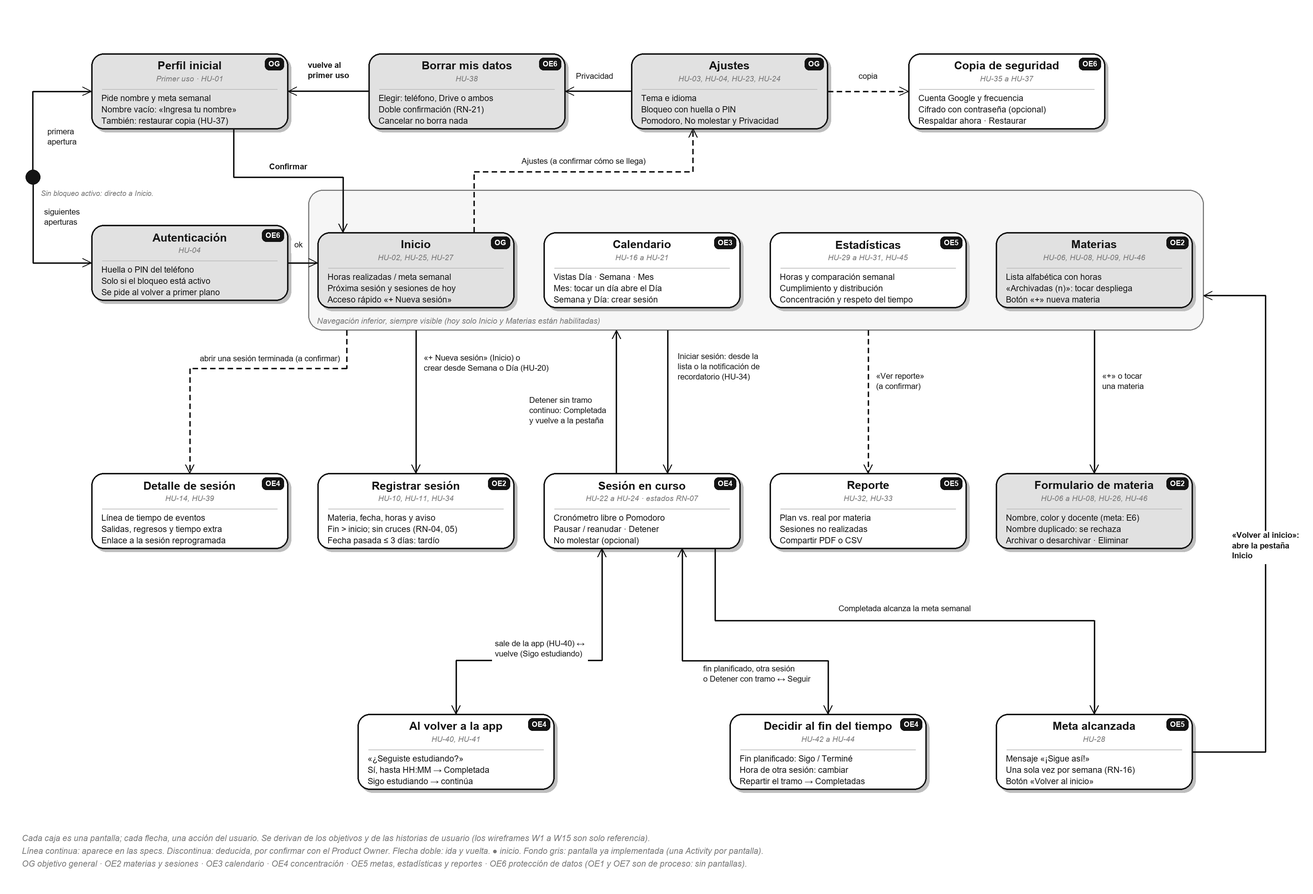
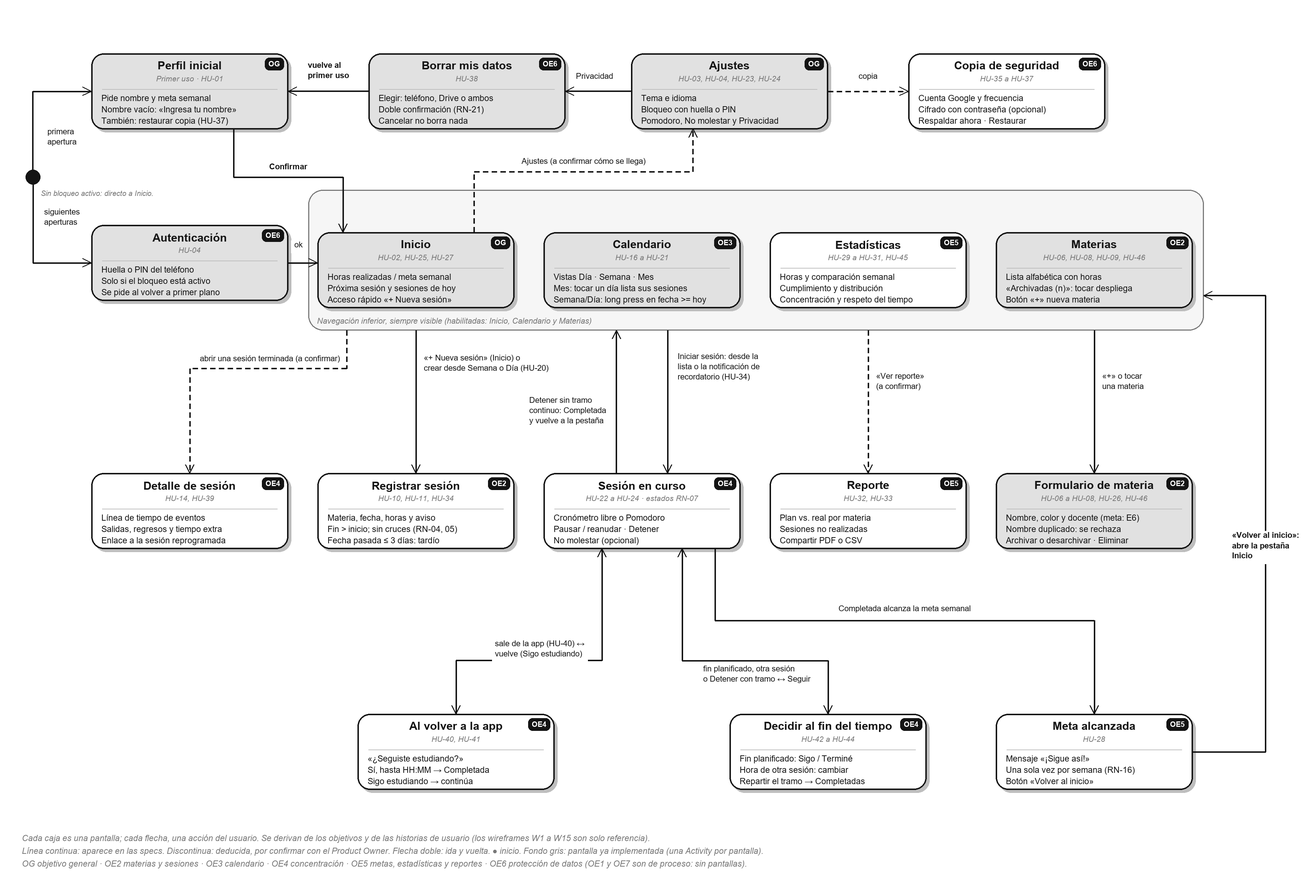
docs: actualizar diagramas, capitulos 3 y 4 y bitacora para epica E4

Changed region(s): [[0.3733, 0.2482, 0.56, 0.3722]]

diff --git a/docs/build/diagramas_clases.py b/docs/build/diagramas_clases.py
@@ -70,13 +70,22 @@ DOMINIO_SESIONES = ["CodigoEstadoSesion", "ConflictoHorario", "DetalleSesion", "
                     "ResultadoSesion", "SesionEstudio"]
 PERSISTENCIA_SESIONES = ["RelojSistema", "SesionDao", "SesionEntity", "SesionRepositoryRoom", "SesionesDeMateriaRoom"]
 
+# add-calendario-estudio
+PRESENTACION_CALENDARIO = ["CalendarioActivity", "CalendarioMesAdapter", "CalendarioViewModel",
+                           "PreferenciaVistaCalendario"]
+ENTRADA_CALENDARIO = ["ConsultarCalendario"]
+SERVICIOS_CALENDARIO = ["ConsultarCalendarioService"]
+DOMINIO_CALENDARIO = ["BloqueHorarioCalendario", "CalculadorRangoHorario", "CeldaDiaMes", "DatosCalendario",
+                      "FiltroCalendario", "ItemSesionCalendario", "PeriodoCalendario", "ResumenPeriodoCalendario",
+                      "VistaCalendario"]
+
 # Paquete (carpeta bajo io/github/jhoel0521/studyplan) -> todas las clases que deben aparecer en algún diagrama
 CLASES_POR_PAQUETE = {
-    "adapter/in/ui": PRESENTACION_CONFIG + PRESENTACION_MATERIAS + PRESENTACION_SESIONES,
-    "application/port/in": ENTRADA_CONFIG + ENTRADA_MATERIAS + ENTRADA_SESIONES,
-    "application/service": SERVICIOS_CONFIG + SERVICIOS_MATERIAS + SERVICIOS_SESIONES,
+    "adapter/in/ui": PRESENTACION_CONFIG + PRESENTACION_MATERIAS + PRESENTACION_SESIONES + PRESENTACION_CALENDARIO,
+    "application/port/in": ENTRADA_CONFIG + ENTRADA_MATERIAS + ENTRADA_SESIONES + ENTRADA_CALENDARIO,
+    "application/service": SERVICIOS_CONFIG + SERVICIOS_MATERIAS + SERVICIOS_SESIONES + SERVICIOS_CALENDARIO,
     "application/port/out": SALIDA_CONFIG + SALIDA_MATERIAS + SALIDA_SESIONES,
-    "domain": DOMINIO_CONFIG + DOMINIO_MATERIAS + DOMINIO_SESIONES,
+    "domain": DOMINIO_CONFIG + DOMINIO_MATERIAS + DOMINIO_SESIONES + DOMINIO_CALENDARIO,
     "adapter/out/persistence": PERSISTENCIA_CONFIG + PERSISTENCIA_MATERIAS + PERSISTENCIA_SESIONES,
     "adapter/out/security": SEGURIDAD_CONFIG,
 }
@@ -297,6 +306,57 @@ def clases_sesiones():
     dg.assoc(d, infra[2].left(0.3), infra[1].right(0.3), "usa", None, None)
     dg.assoc(d, infra[1].left(0.3), infra[0].right(0.3), "lee y escribe", None, None)
     img.crop((0, 0, W, int(y5 + alto(infra) + 60))).save(dg.OUT / "diagrama_clases_sesiones.png", dpi=(200, 200))
+
+
+def clases_calendario():
+    """Clases de la épica E4: calendario de estudio (vistas Día/Semana/Mes, filtros y consulta por rango)."""
+    W, H = 3760, 4200
+    img = Image.new("RGB", (W, H), dg.WHITE)
+    d = ImageDraw.Draw(img)
+    d.text((40, 20), "1. Presentación · adapter.in.ui", font=dg.font(34, True), fill=dg.BLACK)
+
+    xs1, w1 = [40, 980, 1920, 2860], 860
+    fila1 = [caja_con_metodos("CalendarioActivity", xs1[0], 80, w1),
+             caja_con_metodos("CalendarioViewModel", xs1[1], 80, w1),
+             caja_con_metodos("CalendarioMesAdapter", xs1[2], 80, w1),
+             caja_con_metodos("PreferenciaVistaCalendario", xs1[3], 80, w1)]
+    for c in fila1:
+        c.draw(d)
+    dg.assoc(d, fila1[0].right(0.2), fila1[1].left(0.2), "observa", None, None)
+    dg.assoc(d, fila1[1].right(0.2), fila1[3].left(0.2), "persiste vista", None, None)
+
+    y2 = 80 + alto(fila1) + 90
+    d.line([40, y2 - 30, W - 40, y2 - 30], fill=dg.MID, width=3)
+    d.text((40, y2), "2. Núcleo de la aplicación · Java puro, sin android.*", font=dg.font(34, True), fill=dg.BLACK)
+    y2 += 60
+    xs2, ws2 = [40, 1020, 1980, 2880], [900, 880, 820, 840]
+    periodo = caja_con_metodos("PeriodoCalendario", xs2[0], y2, ws2[0], con_campos=True)
+    calculador = caja_con_metodos("CalculadorRangoHorario", xs2[1], y2, ws2[1])
+    paquete_dom = caja_de_paquete(
+        "Modelos de lectura y filtro (domain)",
+        ["VistaCalendario", "FiltroCalendario", "DatosCalendario", "ItemSesionCalendario",
+         "BloqueHorarioCalendario", "CeldaDiaMes", "ResumenPeriodoCalendario"],
+        xs2[2], y2, ws2[2], "domain")
+    servicio = caja_con_metodos("ConsultarCalendarioService", xs2[3], y2, ws2[3])
+    nucleo = [periodo, calculador, paquete_dom, servicio]
+    for c in nucleo:
+        c.draw(d)
+    dg.assoc(d, servicio.left(0.3), paquete_dom.right(0.3), "construye", None, None)
+    dg.assoc(d, calculador.right(0.3), paquete_dom.left(0.3), "genera", None, None)
+
+    y3 = y2 + alto(nucleo) + 90
+    d.line([40, y3 - 30, W - 40, y3 - 30], fill=dg.MID, width=3)
+    d.text((40, y3), "3. Puertos e infraestructura Room v3 (sin migración)", font=dg.font(34, True), fill=dg.BLACK)
+    y3 += 60
+    infra = [caja_con_metodos("ConsultarCalendario", xs1[0], y3, w1, "port.in"),
+             caja_con_metodos("SesionRepository", xs1[1], y3, w1, "port.out"),
+             caja_con_metodos("SesionRepositoryRoom", xs1[2], y3, w1),
+             caja_con_metodos("SesionDao", xs1[3], y3, w1, "Dao")]
+    for c in infra:
+        c.draw(d)
+    dg.assoc(d, infra[2].left(0.3), infra[1].right(0.3), "implementa", None, None)
+    dg.assoc(d, infra[2].right(0.3), infra[3].left(0.3), "listarPorRango", None, None)
+    img.crop((0, 0, W, int(y3 + alto(infra) + 60))).save(dg.OUT / "diagrama_clases_calendario.png", dpi=(200, 200))
 
 
 # ---------------------------------------------------------------- modelo lógico y diccionario de datos
@@ -564,18 +624,56 @@ def secuencia_planificar_sesion():
     )
 
 
+PARTICIPANTES_CALENDARIO = [
+    ("CalendarioActivity", "adapter.in.ui"),
+    ("CalendarioViewModel", "adapter.in.ui"),
+    ("ConsultarCalendarioService", "application"),
+    ("VencerSesionesPendientesService", "application"),
+    ("SesionRepositoryRoom", "adapter.out"),
+    ("SesionDao", "Room"),
+]
+
+MENSAJES_CALENDARIO = [
+    (0, 1, "cargar() / cambiarVista(vista)", ("CalendarioViewModel", "cargar"), False),
+    (1, 2, "ejecutar(periodo, filtro)", ("ConsultarCalendarioService", "ejecutar"), False),
+    (2, 3, "ejecutar() [RN-08 vencer pendientes]", ("VencerSesionesPendientesService", "ejecutar"), False),
+    (3, 2, "int vencidas", None, True),
+    (2, 4, "listarPorRango(desde, hasta)", ("SesionRepositoryRoom", "listarPorRango"), False),
+    (4, 5, "listarPorRango(desdeIso, hastaIso)", ("SesionDao", "listarPorRango"), False),
+    (5, 4, "List<SesionEntity>", None, True),
+    (4, 2, "List<SesionEstudio>", None, True),
+    (2, 2, "filtrar, construir bloques/celdas y resumen Plan/Real", None, False),
+    (2, 1, "DatosCalendario", None, True),
+    (1, 0, "LiveData<DatosCalendario> → onDatosActualizados()", ("CalendarioActivity", "onDatosActualizados"), True),
+]
+
+
+def secuencia_consultar_calendario():
+    _dibujar_secuencia(
+        "Secuencia · consultar calendario de estudio (HU-16 a HU-21, RN-08, RN-11)",
+        PARTICIPANTES_CALENDARIO,
+        MENSAJES_CALENDARIO,
+        1,
+        10,
+        "secuencia_consultar_calendario.png",
+    )
+
+
 def generar():
     clases_configuracion()
     clases_materias()
     clases_sesiones()
+    clases_calendario()
     version, entidades = modelo_logico()
     actualizar_capitulo(version, entidades)
     secuencia_registrar_materia()
     secuencia_planificar_sesion()
+    secuencia_consultar_calendario()
 
 
 if __name__ == "__main__":
     generar()
     for f in ("diagrama_clases_configuracion", "diagrama_clases_materias", "diagrama_clases_sesiones",
-              "modelo_logico", "secuencia_registrar_materia", "secuencia_planificar_sesion"):
+              "diagrama_clases_calendario", "modelo_logico", "secuencia_registrar_materia",
+              "secuencia_planificar_sesion", "secuencia_consultar_calendario"):
         print((dg.OUT / f"{f}.png").relative_to(RAIZ))

diff --git a/docs/build/diagramas.py b/docs/build/diagramas.py
@@ -442,7 +442,7 @@ def flujo_pantallas():
     # grupo de navegación inferior: el usuario pasa libremente entre las 4 pestañas
     gx0, gy0, gx1, gy1 = 845, 520, 3300, 905
     d.rounded_rectangle([gx0, gy0, gx1, gy1], 40, fill=(246, 246, 246), outline=GRAY, width=3)
-    d.text((gx0 + 24, gy1 - 14), "Navegación inferior, siempre visible (hoy solo Inicio y Materias están habilitadas)",
+    d.text((gx0 + 24, gy1 - 14), "Navegación inferior, siempre visible (habilitadas: Inicio, Calendario y Materias)",
            font=font(22, italic=True), fill=GRAY, anchor="lb")
 
     caja("perfil", C0, Y1, "Perfil inicial", "Primer uso · HU-01",
@@ -455,8 +455,8 @@ def flujo_pantallas():
          ["Horas realizadas / meta semanal", "Próxima sesión y sesiones de hoy", "Acceso rápido «+ Nueva sesión»"],
          "OG", LIGHT)
     caja("cal", C2, Y2 + 20, "Calendario", "HU-16 a HU-21",
-         ["Vistas Día · Semana · Mes", "Mes: tocar un día abre el Día", "Semana y Día: crear sesión"],
-         "OE3")
+         ["Vistas Día · Semana · Mes", "Mes: tocar un día lista sus sesiones", "Semana/Día: long press en fecha >= hoy"],
+         "OE3", LIGHT)
     caja("est", C3, Y2 + 20, "Estadísticas", "HU-29 a HU-31, HU-45",
          ["Horas y comparación semanal", "Cumplimiento y distribución", "Concentración y respeto del tiempo"],
          "OE5")

diff --git a/docs/build/cotejo_clases.py b/docs/build/cotejo_clases.py
@@ -19,7 +19,8 @@ import diagramas_clases as dc  # noqa: E402
 
 RAIZ = dc.jf.RAIZ
 IMAGENES = ["diagrama_clases_configuracion", "diagrama_clases_materias", "diagrama_clases_sesiones",
-            "modelo_logico", "secuencia_registrar_materia", "secuencia_planificar_sesion"]
+            "diagrama_clases_calendario", "modelo_logico", "secuencia_registrar_materia",
+            "secuencia_planificar_sesion", "secuencia_consultar_calendario"]
 
 
 def cotejar_clases(errores):
@@ -46,9 +47,11 @@ def cotejar_imagenes(errores):
             dc.clases_configuracion()
             dc.clases_materias()
             dc.clases_sesiones()
+            dc.clases_calendario()
             dc.modelo_logico()
             dc.secuencia_registrar_materia()
             dc.secuencia_planificar_sesion()
+            dc.secuencia_consultar_calendario()
         finally:
             dg.OUT = carpeta_real
         for nombre in IMAGENES:

diff --git a/docs/auditoria-ia/bitacora.md b/docs/auditoria-ia/bitacora.md
@@ -172,11 +172,44 @@ Decisiones posibles: Aceptado · Modificado · Rechazado · Decidido por el huma
 
 | # | Solicitud / tema | Qué hizo la IA | Decisión humana | Justificación | Verificación |
 |---|---|---|---|---|---|
-| 70 | Aprobación del plan y Bloque 1: dominio puro y patrón State GoF (`RN-04`, `RN-07`) | Implementó `Fecha`, `Hora` (sin `java.time` para `minSdk 24` ni dependencias externas), `CodigoEstadoSesion`, `EstadoSesion` y sus 6 estados concretos (`EstadoPendiente`, `EstadoEnCurso`, `EstadoNoRealizada`, `EstadoCompletada`, `EstadoCompletadaTardia`, `EstadoReprogramada`), `SesionEstudio`, `ConflictoHorario`, `ResultadoSesion`, `DetalleSesion`, `DetalleSesionInicio` y amplió `ErrorValidacion` y `ResumenInicio` | **Aceptado** (aprobación humana previa de `0.1`) y **Pendiente** de revisión final de entrega | `AGENTS.md` §3 paso 2 y §6.1 (SRP/OCP/LSP con State GoF sin `switch`/`if` dispersos ni excepciones) | `.\gradlew.bat testDebugUnitTest lintDebug` en verde (`BUILD SUCCESSFUL`); commit `708492c` y `git push` |
-| 71 | Bloque 2: puertos de salida/entrada y servicios de aplicación (`HU-02`, `HU-08`..`HU-15`, `RN-05`, `RN-08`) | Creó puertos `Reloj`, `SesionRepository`, 8 puertos de entrada (`PlanificarSesion`, `RegistrarSesionPasada`, `CompletarSesion`, `RegistrarSesionTardia`, `ReprogramarSesion`, `EliminarSesion`, `ConsultarSesion`, `VencerSesionesPendientes`) y sus servicios + `ValidadorSesiones`, completó `ObtenerResumenInicioService`, actualizó `ListarMateriasService` y restringió `EliminarMateriaService` con sesiones reales | **Pendiente** de revisión humana | Arquitectura hexagonal estricta (`ArquitecturaTest` sin `android.*` en `domain`/`application`) y validación uniforme de cruces (`RN-05`) | `.\gradlew.bat testDebugUnitTest lintDebug` en verde; pruebas JUnit por servicio y regla de negocio; commit `87dda54` y `git push` |
-| 72 | Bloque 3: persistencia Room v3 (`MIGRATION_2_3`) y adaptadores reales (`RNF-12`, `HU-08`, `HU-09`) | Creó `SesionEntity` (claves foráneas `ON DELETE RESTRICT` a `materia` y `ON DELETE SET NULL` autoreferenciada), `SesionDao` (consultas parametrizadas + `@Transaction` en reprogramación), `SesionRepositoryRoom`, `SesionesDeMateriaRoom` (eliminando `SinSesionesDeMateria`), `RelojSistema`, `MIGRATION_2_3` en `Migraciones` y `StudyPlanDatabase` v3 con esquema exportado `3.json`; actualizó pruebas DAO y de migración | **Pendiente** de revisión humana | Eliminación del adaptador provisional `SinSesionesDeMateria` cumpliendo integridad referencial real en SQLite (`RN-03`) | `.\gradlew.bat assembleDebug assembleDebugAndroidTest testDebugUnitTest lintDebug` en verde + `SesionRepositoryRoomTest` y `Migracion3InstrumentalTest`; commit `2ee8911` y `git push` |
-| 73 | Bloque 4: presentación MVVM, ViewModels y layouts XML accesibles (`HU-02`, `HU-10`..`HU-15`, `RNF-06`, `RNF-10`) | Implementó `InicioViewModel`, `MainActivity`, `SesionInicioAdapter`, `SesionFormularioActivity`/`ViewModel`, `SesionDetalleActivity`/`ViewModel`, `EstadoSesionVisual`, `EventoSesion`, `FormatoSesion`, `MensajesDeError`, 7 drawables vectoriales y los layouts XML (`contenido_inicio`, `item_sesion_inicio`, `activity_sesion_formulario`, `activity_sesion_detalle` y variantes `layout-w600dp/`) cumpliendo §6.2, además del pulido de accesibilidad en layouts previos | **Pendiente** de revisión humana | Material Design 3 + Views XML accesibles, contraste y soporte multi-ventana sin lógica de negocio en Activities | `.\gradlew.bat assembleDebug testDebugUnitTest lintDebug` en verde (0 errores de Lint); commit `c9d794d` y `git push` |
-| 74 | Bloque 5: pruebas Espresso E2E y auditoría con `revisor-java` | Creó `SesionesEspressoTest` e `InicioEspressoTest` y amplió `MateriasEspressoTest`. Ejecutó auditoría de solo lectura siguiendo `.claude/agents/revisor-java.md`: detectó y corrigió el hallazgo **Alto** (`SesionFormularioActivity` y `SesionDetalleActivity` extendían `ActividadBase` en lugar de `ActividadProtegida`, omitiendo `FLAG_SECURE` y el bloqueo `HU-04`/`RNF-12`), hallazgos **Medios** (listeners lambda de `MaterialTimePicker` pasados a métodos con nombre y candado anti-doble-toque en `SesionDetalleViewModel.completar`) y hallazgos **Bajos** (`MainActivity`, `ObtenerResumenInicioService`, `item_materia.xml`, `item_encabezado_archivadas.xml`, `ic_reloj.xml`, Javadocs) | **Pendiente** de revisión humana | Cierre de seguridad (`RNF-12`) y cumplimiento estricto de `AGENTS.md` §6 antes de documentar | `.\gradlew.bat assembleDebug test lint` (199 unit tests / 39 suites, 0 fallos, 0 errores Lint) y `connectedDebugAndroidTest` en `SP_API37` (63 tests / 19 suites, 0 fallos); commit `0f3e058` y `git push` |
-| 75 | Bloque 6: diagramas, modelo lógico v3, capítulo 4, APA 7 y validación OpenSpec | Actualizó `docs/build/diagramas_clases.py` y `docs/build/cotejo_clases.py` para cubrir las 141 clases en 7 paquetes, generó `diagrama_clases_sesiones.png`, `secuencia_planificar_sesion.png` y `modelo_logico.png` v3, actualizó secciones 4.1–4.4 de `04-diseno-del-software.md`, revisó con `.apa/scripts/revisar.py`, generó `.docx` con `generar_docx.py` y validó OpenSpec | **Pendiente** de revisión humana | Mantener trazabilidad 1:1 generada desde código Java y esquemas Room (`cotejo_clases.py`) | `python docs/build/cotejo_clases.py` (141 clases, 0 desfases), `revisar.py`, `generar_docx.py` y `openspec validate add-sesiones-estudio --strict` |
+| 70 | Aprobación del plan y Bloque 1: dominio puro y patrón State GoF (`RN-04`, `RN-07`) | Implementó `Fecha`, `Hora` (sin `java.time` para `minSdk 24` ni dependencias externas), `CodigoEstadoSesion`, `EstadoSesion` y sus 6 estados concretos (`EstadoPendiente`, `EstadoEnCurso`, `EstadoNoRealizada`, `EstadoCompletada`, `EstadoCompletadaTardia`, `EstadoReprogramada`), `SesionEstudio`, `ConflictoHorario`, `ResultadoSesion`, `DetalleSesion`, `DetalleSesionInicio` y amplió `ErrorValidacion` y `ResumenInicio` | **Aceptado** (revisado por el estudiante y archivado el 2026-11-16 en commit `f11c4f1`) | `AGENTS.md` §3 paso 2 y §6.1 (SRP/OCP/LSP con State GoF sin `switch`/`if` dispersos ni excepciones) | `.\gradlew.bat testDebugUnitTest lintDebug` en verde (`BUILD SUCCESSFUL`); commit `708492c` y `git push` |
+| 71 | Bloque 2: puertos de salida/entrada y servicios de aplicación (`HU-02`, `HU-08`..`HU-15`, `RN-05`, `RN-08`) | Creó puertos `Reloj`, `SesionRepository`, 8 puertos de entrada (`PlanificarSesion`, `RegistrarSesionPasada`, `CompletarSesion`, `RegistrarSesionTardia`, `ReprogramarSesion`, `EliminarSesion`, `ConsultarSesion`, `VencerSesionesPendientes`) y sus servicios + `ValidadorSesiones`, completó `ObtenerResumenInicioService`, actualizó `ListarMateriasService` y restringió `EliminarMateriaService` con sesiones reales | **Aceptado** (revisado por el estudiante y archivado el 2026-11-16 en commit `f11c4f1`) | Arquitectura hexagonal estricta (`ArquitecturaTest` sin `android.*` en `domain`/`application`) y validación uniforme de cruces (`RN-05`) | `.\gradlew.bat testDebugUnitTest lintDebug` en verde; pruebas JUnit por servicio y regla de negocio; commit `87dda54` y `git push` |
+| 72 | Bloque 3: persistencia Room v3 (`MIGRATION_2_3`) y adaptadores reales (`RNF-12`, `HU-08`, `HU-09`) | Creó `SesionEntity` (claves foráneas `ON DELETE RESTRICT` a `materia` y `ON DELETE SET NULL` autoreferenciada), `SesionDao` (consultas parametrizadas + `@Transaction` en reprogramación), `SesionRepositoryRoom`, `SesionesDeMateriaRoom` (eliminando `SinSesionesDeMateria`), `RelojSistema`, `MIGRATION_2_3` en `Migraciones` y `StudyPlanDatabase` v3 con esquema exportado `3.json`; actualizó pruebas DAO y de migración | **Aceptado** (revisado por el estudiante y archivado el 2026-11-16 en commit `f11c4f1`) | Eliminación del adaptador provisional `SinSesionesDeMateria` cumpliendo integridad referencial real en SQLite (`RN-03`) | `.\gradlew.bat assembleDebug assembleDebugAndroidTest testDebugUnitTest lintDebug` en verde + `SesionRepositoryRoomTest` y `Migracion3InstrumentalTest`; commit `2ee8911` y `git push` |
+| 73 | Bloque 4: presentación MVVM, ViewModels y layouts XML accesibles (`HU-02`, `HU-10`..`HU-15`, `RNF-06`, `RNF-10`) | Implementó `InicioViewModel`, `MainActivity`, `SesionInicioAdapter`, `SesionFormularioActivity`/`ViewModel`, `SesionDetalleActivity`/`ViewModel`, `EstadoSesionVisual`, `EventoSesion`, `FormatoSesion`, `MensajesDeError`, 7 drawables vectoriales y los layouts XML (`contenido_inicio`, `item_sesion_inicio`, `activity_sesion_formulario`, `activity_sesion_detalle` y variantes `layout-w600dp/`) cumpliendo §6.2, además del pulido de accesibilidad en layouts previos | **Aceptado** (revisado por el estudiante y archivado el 2026-11-16 en commit `f11c4f1`) | Material Design 3 + Views XML accesibles, contraste y soporte multi-ventana sin lógica de negocio en Activities | `.\gradlew.bat assembleDebug testDebugUnitTest lintDebug` en verde (0 errores de Lint); commit `c9d794d` y `git push` |
+| 74 | Bloque 5: pruebas Espresso E2E y auditoría con `revisor-java` | Creó `SesionesEspressoTest` e `InicioEspressoTest` y amplió `MateriasEspressoTest`. Ejecutó auditoría de solo lectura siguiendo `.claude/agents/revisor-java.md`: detectó y corrigió el hallazgo **Alto** (`SesionFormularioActivity` y `SesionDetalleActivity` extendían `ActividadBase` en lugar de `ActividadProtegida`, omitiendo `FLAG_SECURE` y el bloqueo `HU-04`/`RNF-12`), hallazgos **Medios** (listeners lambda de `MaterialTimePicker` pasados a métodos con nombre y candado anti-doble-toque en `SesionDetalleViewModel.completar`) y hallazgos **Bajos** (`MainActivity`, `ObtenerResumenInicioService`, `item_materia.xml`, `item_encabezado_archivadas.xml`, `ic_reloj.xml`, Javadocs) | **Aceptado** (revisado por el estudiante y archivado el 2026-11-16 en commit `f11c4f1`) | Cierre de seguridad (`RNF-12`) y cumplimiento estricto de `AGENTS.md` §6 antes de documentar | `.\gradlew.bat assembleDebug test lint` (199 unit tests / 39 suites, 0 fallos, 0 errores Lint) y `connectedDebugAndroidTest` en `SP_API37` (63 tests / 19 suites, 0 fallos); commit `0f3e058` y `git push` |
+| 75 | Bloque 6: diagramas, modelo lógico v3, capítulo 4, APA 7 y validación OpenSpec | Actualizó `docs/build/diagramas_clases.py` y `docs/build/cotejo_clases.py` para cubrir las 141 clases en 7 paquetes, generó `diagrama_clases_sesiones.png`, `secuencia_planificar_sesion.png` y `modelo_logico.png` v3, actualizó secciones 4.1–4.4 de `04-diseno-del-software.md`, revisó con `.apa/scripts/revisar.py`, generó `.docx` con `generar_docx.py` y validó OpenSpec | **Aceptado** (revisado por el estudiante y archivado el 2026-11-16 en commit `f11c4f1`) | Mantener trazabilidad 1:1 generada desde código Java y esquemas Room (`cotejo_clases.py`) | `python docs/build/cotejo_clases.py` (141 clases, 0 desfases), `revisar.py`, `generar_docx.py` y `openspec validate add-sesiones-estudio --strict` |
 
-**Errores o riesgos registrados en esta sesión:** (1) En la primera corrida de `SesionesEspressoTest`, 2 aserciones fallaron con `AmbiguousViewMatcherException` al buscar el texto numérico sin acotar `textoDuracionRealDetalle` (corregido con `allOf`). (2) La implementación inicial de Bloque 4 heredó `SesionFormularioActivity` y `SesionDetalleActivity` de `ActividadBase` en lugar de `ActividadProtegida`; el subagente `revisor-java` lo detectó como riesgo Alto para `HU-04`/`RNF-12` y se migraron ambas Activities a `ActividadProtegida` con carga en `alEstarListo()`. (3) Al atender un detalle menor se probó `getBindingAdapterPosition()`, no disponible en la versión actual de `RecyclerView` de Material 3, revirtiéndose de inmediato a `getAdapterPosition()` antes del cierre final de compilación y pruebas. Queda pendiente la decisión humana sobre si archivar ya el change (`openspec archive add-sesiones-estudio`) o tras la revisión visual en Android Studio.
+**Errores o riesgos registrados en esta sesión:** (1) En la primera corrida de `SesionesEspressoTest`, 2 aserciones fallaron con `AmbiguousViewMatcherException` al buscar el texto numérico sin acotar `textoDuracionRealDetalle` (corregido con `allOf`). (2) La implementación inicial de Bloque 4 heredó `SesionFormularioActivity` y `SesionDetalleActivity` de `ActividadBase` en lugar de `ActividadProtegida`; el subagente `revisor-java` lo detectó como riesgo Alto para `HU-04`/`RNF-12` y se migraron ambas Activities a `ActividadProtegida` con carga en `alEstarListo()`. (3) Al atender un detalle menor se probó `getBindingAdapterPosition()`, no disponible en la versión actual de `RecyclerView` de Material 3, revirtiéndose de inmediato a `getAdapterPosition()` antes del cierre final de compilación y pruebas. El change `add-sesiones-estudio` quedó archivado el 2026-11-16 en `openspec/changes/archive/2026-11-16-add-sesiones-estudio` (commit `f11c4f1`).
+
+---
+
+## Sesión 7 — 2026-11-16 · Antigravity (cierre de E3 y propuesta OpenSpec de Épica E4 `add-calendario-estudio`)
+
+**Entradas del estudiante:** correcciones a `concepts_evidencia_e4.md` (33 tareas en `add-sesiones-estudio/tasks.md`, filas 70–75, rechazo de librerías candidatas de calendario, alcance estricto sin migración Room v3 ni permisos, `HU-16` sobre `flujo_pantallas.png` y `HU-34` en E9), respuestas funcionales para `Mes`/`Semana`/`Día`, observación sobre el bug de exigir `48dp` mínimos en cuadrículas pequeñas, ejecución de `/openspec-propose`, consulta sobre `JKostikiadis/JFXCalendar` y aprobación final del enfoque nativo para aplicar con `/opsx:apply`.
+
+| # | Solicitud / tema | Qué hizo la IA | Decisión humana | Justificación | Verificación |
+|---|---|---|---|---|---|
+| 76 | Corrección de `concepts_evidencia_e4.md`, cierre de filas 70–75 de E3 y ajuste de la regla `48dp` | Actualizó `concepts_evidencia_e4.md` con las correcciones del estudiante (33 tareas en E3, `listarPorRango` sobre Room v3, `HU-16` sobre `flujo_pantallas.png`, `HU-34` en E9), cerró las filas 70–75 tras el archivado de `add-sesiones-estudio` (`f11c4f1`) y actualizó `AGENTS.md` §6.2 + `.claude/agents/revisor-java.md` eximiendo de `minHeight="48dp"` a las celdas de cuadrícula de calendario de 7 columnas (L–D) y a los bloques horarios proporcionales en pantallas pequeñas | **Aceptado** (decidido por el humano) | Evitar falsos errores y deformación de la rejilla semanal/mensual en teléfonos pequeños (`RNF-19`) | Lectura de `concepts_evidencia_e4.md`, `git diff AGENTS.md .claude/agents/revisor-java.md` y `git show f11c4f1 --stat` |
+| 77 | Evaluación de librerías de calendario y consulta sobre `JKostikiadis/JFXCalendar` | Ante el comentario en `proposal.md` preguntando por `https://github.com/JKostikiadis/JFXCalendar` para no programar desde cero, consultó el proyecto y explicó que `JFXCalendar` usa JavaFX (`javafx.scene.*`) y `JFoenix` para aplicaciones de escritorio, por lo que no puede insertarse en layouts XML (`android.view.View`) ni ejecutarse en Android; expuso dos alternativas reales (librería Android `WeekView` en `Canvas` vs. AndroidX/Material nativo generado en `/opsx:apply`) | **Aceptado** (el estudiante confirmó usar desarrollo nativo en Views XML + Java) | JavaFX no forma parte del SDK/runtime de Android; los datos de terceros sobre `JFXCalendar` quedan **marcados para verificación manual** (`AGENTS.md` §5) | Consulta web de `JKostikiadis/JFXCalendar` (`search_web`) y respuesta confirmada del estudiante |
+| 78 | Decisiones funcionales de E4 y propuesta OpenSpec `add-calendario-estudio` (`/openspec-propose`) | Incorporó las decisiones del Product Owner (`Semana` por defecto con memoria local de última vista, conservación de foco entre vistas, días adyacentes atenuados, rejilla 24 h con auto-scroll `± 2 h`, creación por pulsación larga sostenida en `fecha >= hoy`, filtros con materias archivadas y estados, `listarPorRango` en Room v3) y creó `openspec/changes/add-calendario-estudio/` (`proposal.md`, delta spec `specs/calendario-estudio/spec.md` para `HU-20` y `HU-21`, `design.md`, `tasks.md` con 6 bloques y `trazabilidad.md`), marcando `0.1` tras la aprobación humana | **Aceptado** para pasar a `/opsx:apply` (implementación de bloques 1 a 6 pendiente de ejecución y revisión humana) | Propuesta alineada con `AGENTS.md` §3 y arquitectura hexagonal sobre Room v3 sin librerías externas ni permisos | `openspec status --change add-calendario-estudio` (4/4 completos) y `openspec validate --all --strict` (11/11 válidos, 0 fallos) |
+
+**Pendiente de revisión humana:** implementar y verificar los bloques 1 a 6 de `openspec/changes/add-calendario-estudio/tasks.md` (mediante `/opsx:apply`), confirmar las referencias de `JKostikiadis/JFXCalendar` si se citan en el documento y hacer commit de los cambios locales cuando el estudiante lo solicite.
+
+
+---
+
+## Sesión 7 — 2026-11-16 · Antigravity (archivado de E3 e implementación completa de Épica E4 `add-calendario-estudio`)
+
+**Entradas del estudiante:** archivado del change `add-sesiones-estudio` (commit `f11c4f1`) y ejecución de `/openspec-apply-change add-calendario-estudio` tras la aprobación humana (`0.1`), siguiendo estrictamente la arquitectura hexagonal en Java puro, Views XML nativas sin librerías externas ni migración de Room v3, commits modulares por bloque y actualización de diagramas, capítulos 3–4 y bitácora.
+
+| # | Solicitud / tema | Qué hizo la IA | Decisión humana | Justificación | VerificaciÃ³n |
+|---|---|---|---|---|---|
+| 76 | Archivado de E3 (`add-sesiones-estudio`) | Verificó 33/33 tareas completas, archivó en `openspec/changes/archive/2026-11-16-add-sesiones-estudio/` y realizó commit `f11c4f1` por ruta explícita | **Aceptado** (solicitado por el estudiante) | Cierre formal de E3 antes de iniciar E4 (`AGENTS.md` §3 paso 5) | `openspec list --json` vacío; commit `f11c4f1` |
+| 77 | Bloque 1: dominio puro del calendario (`HU-16` a `HU-21`, `RN-13`) | Creó `VistaCalendario`, `FiltroCalendario`, `PeriodoCalendario`, `ItemSesionCalendario`, `BloqueHorarioCalendario`, `CeldaDiaMes`, `ResumenPeriodoCalendario`, `DatosCalendario` y `CalculadorRangoHorario` en Java puro sobre `Fecha`/`Hora`, más `PeriodoCalendarioTest` y `CalculadorRangoHorarioTest` | **Pendiente** de revisión humana | Aritmética de periodos, conservación de foco, ventana `± 2 h` y reparto de solapamientos desacoplados de Android | `.\gradlew.bat testDebugUnitTest lintDebug` en verde (incluye `ArquitecturaTest`); commit `177059a` y `git push` |
+| 78 | Bloque 2: puerto `listarPorRango` y caso de uso `ConsultarCalendario` | Amplió `SesionRepository` con `listarPorRango(Fecha, Fecha)`, implementó `ConsultarCalendario` + `ConsultarCalendarioService` (vencimiento `RN-08`, filtros de materia/archivadas/estados y resumen `Plan / Real` acotado al rango visible) y `ConsultarCalendarioServiceTest` | **Pendiente** de revisión humana | Separación estricta de puertos e inyección por constructor (`DIP`/`ISP`) | `.\gradlew.bat testDebugUnitTest lintDebug` en verde; commit `e950b56` y `git push` |
+| 79 | Bloque 3: consulta por rango en Room v3 sin migración | Añadió `listarPorRango(String, String)` en `SesionDao` aprovechando `index_sesion_estudio_fecha`, lo conectó en `SesionRepositoryRoom` y agregó prueba de rango inclusivo, orden y verificación de versión 3 en `SesionRepositoryRoomTest` | **Pendiente** de revisión humana | Reutilización del esquema v3 existente sin migración ni permisos | `.\gradlew.bat assembleDebug assembleDebugAndroidTest testDebugUnitTest lintDebug` en verde; commit `f774074` y `git push` |
+| 80 | Bloque 4: presentación XML nativa, `CalendarioActivity` y ViewModel | Implementó `PreferenciaVistaCalendario`, `CalendarioViewModel` (+ `CalendarioViewModelTest`), `CalendarioMesAdapter`, `CalendarioActivity` (extiende `ActividadProtegida`, vistas `Día | Semana | Mes`, swipe, filtros, leyenda, `longClick` en `fecha >= hoy` y toque a `SesionDetalleActivity`), habilitó `DestinoPrincipal.CALENDARIO`, amplió `SesionFormularioActivity` (`EXTRA_HORA_INICIO`/`FIN`), `values`/`values-en/strings.xml`, `AndroidManifest.xml` y los 7 layouts XML (`layout/` y `layout-w600dp/`) | **Pendiente** de revisión humana | UI 100 % nativa en Views XML + Material 3 cumpliendo `AGENTS.md` §6.2 y `RNF-06`/`RNF-19` | `.\gradlew.bat assembleDebug testDebugUnitTest lintDebug` en verde (0 errores Lint); commit `e1b8863` y `git push` |
+| 81 | Bloque 5: pruebas Espresso E2E y revisión con `revisor-java` | Creó `CalendarioActivityEspressoTest` (5 pruebas E2E cubriendo `Semana` inicial, memoria de vista, foco, `Mes`, `Leyenda`, `longClick` en hoy vs pasado, filtros, rotación, color editado `HU-07` y `NO_REALIZADA` pasada `HU-13`/`HU-14`), actualizó `NavegacionEspressoTest` y ejecutó revisión `revisor-java` y `connectedDebugAndroidTest` en `SP_API37` | **Pendiente** de revisión humana | Verificación integral E2E en emulador real sin dependencias externas | `.\gradlew.bat assembleDebug test lint` en verde; `connectedDebugAndroidTest` en `SP_API37` (69/69 tests, 0 fallos); commit `fc2546b` y `git push` |
+| 82 | Bloque 6: diagramas, capítulos 3–4, APA 7 y validación OpenSpec | Corrigió `flujo_pantallas()` en `docs/build/diagramas.py`, añadió `diagrama_clases_calendario.png` y `secuencia_consultar_calendario.png` en `diagramas_clases.py` y `cotejo_clases.py` (156 clases en 7 paquetes, 0 desfases), actualizó `HU-20`/`HU-21` en cap. 3 y sección E4 en cap. 4, validó con `revisar.py`, generó `.docx` con `generar_docx.py` y validó OpenSpec | **Pendiente** de revisión humana | Trazabilidad 1:1 entre código Java, diagramas y documento APA 7 | `cotejo_clases.py` (156 clases, 0 desfases), `revisar.py`, `generar_docx.py` y `openspec validate add-calendario-estudio --strict` |
+
+**Errores o riesgos registrados en esta sesión:** en la primera ejecución de `connectedDebugAndroidTest` fallaron 2 pruebas instrumentadas: (1) `CalendarioActivityEspressoTest#vistaMesListaSesionesAlTocarDiaYLeyendaMuestraTodosLosEstados` por `AmbiguousViewMatcherException` al buscar `withContentDescription(containsString(hoy))` sin acotar `withId(R.id.tarjetaCeldaMes)` (coincidía con las franjas ocultas de la vista anterior); (2) `SesionRepositoryRoomTest#listarPorRangoOrdenaInclusivamenteYConservaVersion3SinPermisos` porque el manifiesto combinado incluye permisos heredados de bibliotecas AndroidX/Biometric (`DYNAMIC_RECEIVER_NOT_EXPORTED_PERMISSION`, `USE_BIOMETRIC`), ajustándose la aserción a comprobar la ausencia de `INTERNET` y de permisos de E5/E9 (`POST_NOTIFICATIONS`, `SCHEDULE_EXACT_ALARM`, `RECEIVE_BOOT_COMPLETED`, `VIBRATE`, `ACCESS_NOTIFICATION_POLICY`). Queda pendiente la revisión humana y el archivado final con `/openspec-archive-change add-calendario-estudio`.

diff --git a/docs/documento/capitulos/03-requisitos-y-analisis-del-sistema.md b/docs/documento/capitulos/03-requisitos-y-analisis-del-sistema.md
@@ -270,13 +270,13 @@ Tabla: Historias de usuario de la épica E4: Calendario de estudio {#tabla11}
 | **Prioridad / Est.** | Must · 3 puntos |
 | **Criterios de aceptación** | 1. **Indicadores.** *Dado* que hay sesiones en distintos estados, *cuando* el estudiante ve cualquier vista del calendario, *entonces* cada sesión muestra un ícono y una etiqueta propios de su estado, sin depender solo del color.<br>2. **Leyenda.** *Dado* que el estudiante no reconoce un ícono, *cuando* abre la leyenda del calendario, *entonces* el sistema explica cada ícono de estado. |
 | **HU-20** | **Crear sesión desde el calendario** |
-| **Historia** | Como estudiante, quiero tocar un día u hora libre del calendario para crear una sesión para planificar directamente sobre mi agenda. |
+| **Historia** | Como estudiante, quiero mantener pulsado un día u hora libre del calendario para crear una sesión para planificar directamente sobre mi agenda. |
 | **Prioridad / Est.** | Should · 3 puntos |
-| **Criterios de aceptación** | 1. **Hora libre.** *Dado* que la vista Semana o Día está abierta, *cuando* el estudiante toca una franja libre a las 15:00 del viernes, *entonces* el sistema abre «Nueva sesión» con fecha viernes e inicio 15:00 precargados.<br>2. **Día en la vista Mes.** *Dado* que la vista Mes está abierta, *cuando* el estudiante mantiene pulsado un día, *entonces* el sistema abre «Nueva sesión» con esa fecha. |
+| **Criterios de aceptación** | 1. **Hora libre.** *Dado* que la vista Semana o Día está abierta en una fecha igual o posterior a hoy, *cuando* el estudiante mantiene pulsada de forma sostenida una franja libre a las 15:00 del viernes, *entonces* el sistema abre «Nueva sesión» en modo planificar con fecha viernes, inicio 15:00 y fin sugerido 16:00 precargados.<br>2. **Día en la vista Mes.** *Dado* que la vista Mes está abierta en una fecha igual o posterior a hoy, *cuando* el estudiante mantiene pulsado de forma sostenida un día, *entonces* el sistema abre «Nueva sesión» en modo planificar con esa fecha precargada.<br>3. **Fecha pasada sin creación desde el calendario.** *Dado* que cualquier vista del calendario muestra un día anterior a hoy, *cuando* el estudiante mantiene pulsado ese día o una franja horaria de ese día, *entonces* el sistema no abre el formulario de creación desde el calendario. |
 | **HU-21** | **Filtrar y resumir el calendario** |
-| **Historia** | Como estudiante, quiero filtrar el calendario por materia y ver el total de horas planificadas y realizadas para analizar mi dedicación a una materia en el tiempo. |
+| **Historia** | Como estudiante, quiero filtrar el calendario por materia (incluyendo opcionalmente archivadas) y ver el total de horas planificadas y realizadas para analizar mi dedicación a una materia en el tiempo. |
 | **Prioridad / Est.** | Should · 3 puntos |
-| **Criterios de aceptación** | 1. **Filtro.** *Dado* que hay sesiones de varias materias, *cuando* el estudiante filtra por «Matemáticas», *entonces* todas las vistas muestran solo las sesiones de esa materia hasta quitar el filtro.<br>2. **Resumen.** *Dado* que una vista está abierta, *cuando* el estudiante consulta la cabecera, *entonces* el sistema muestra las horas planificadas y realizadas del día, la semana o el mes visible. |
+| **Criterios de aceptación** | 1. **Filtro.** *Dado* que hay sesiones de varias materias activas y archivadas, *cuando* el estudiante filtra por «Matemáticas» o habilita incluir materias archivadas para seleccionar una archivada, *entonces* todas las vistas muestran solo las sesiones que cumplen el filtro hasta restablecerlo.<br>2. **Resumen.** *Dado* que una vista está abierta, *cuando* el estudiante consulta la cabecera, *entonces* el sistema muestra las horas planificadas y realizadas del día, la semana o el mes visible según el filtro activo. |
 | **Criterios de calidad** | RNF-02, RNF-04, RNF-06, RNF-19, RNF-09, RNF-16, RNF-17 (ver @tabla:tabla21) |
 | **Spec OpenSpec** | openspec/specs/calendario-estudio/spec.md |
 

diff --git a/openspec/changes/add-calendario-estudio/tasks.md b/openspec/changes/add-calendario-estudio/tasks.md
@@ -53,9 +53,9 @@
 
 ## 6. Documentación académica, diagramas y auditoría IA
 
-- [ ] 6.1 Corregir `flujo_pantallas()` en `docs/build/diagramas.py` (prevalece `HU-16`: en `Mes` tocar un día lista sus sesiones debajo; `Semana`/`Día` crean por pulsación larga en `fecha >= hoy`; mantener `HU-34` en E9), actualizar `docs/build/diagramas_clases.py` y `docs/build/cotejo_clases.py` con las nuevas clases de E4 y diagrama de secuencia de consulta de calendario, y regenerar figuras comprobando `python docs/build/cotejo_clases.py` con 0 desfases.
-- [ ] 6.2 Actualizar `docs/documento/capitulos/03-requisitos-y-analisis-del-sistema.md` (criterios de `HU-20` y `HU-21` acorde con el delta spec) y `docs/documento/capitulos/04-diseno-del-software.md` (secciones 4.2, 4.3 y 4.4 con las figuras regeneradas), actualizar `docs/auditoria-ia/bitacora.md`, validar con `python .apa/scripts/revisar.py --doc docs/documento`, generar el `.docx` con `python .apa/scripts/generar_docx.py --doc docs/documento` y confirmar `openspec validate add-calendario-estudio --strict`.
-- [ ] 6.3 Realizar `git commit` por ruta explícita (`docs: actualizar diagramas, capitulos 3 y 4 y bitacora para epica E4`) y ejecutar `git push`.
+- [x] 6.1 Corregir `flujo_pantallas()` en `docs/build/diagramas.py` (prevalece `HU-16`: en `Mes` tocar un día lista sus sesiones debajo; `Semana`/`Día` crean por pulsación larga en `fecha >= hoy`; mantener `HU-34` en E9), actualizar `docs/build/diagramas_clases.py` y `docs/build/cotejo_clases.py` con las nuevas clases de E4 y diagrama de secuencia de consulta de calendario, y regenerar figuras comprobando `python docs/build/cotejo_clases.py` con 0 desfases.
+- [x] 6.2 Actualizar `docs/documento/capitulos/03-requisitos-y-analisis-del-sistema.md` (criterios de `HU-20` y `HU-21` acorde con el delta spec) y `docs/documento/capitulos/04-diseno-del-software.md` (secciones 4.2, 4.3 y 4.4 con las figuras regeneradas), actualizar `docs/auditoria-ia/bitacora.md`, validar con `python .apa/scripts/revisar.py --doc docs/documento`, generar el `.docx` con `python .apa/scripts/generar_docx.py --doc docs/documento` y confirmar `openspec validate add-calendario-estudio --strict`.
+- [x] 6.3 Realizar `git commit` por ruta explícita (`docs: actualizar diagramas, capitulos 3 y 4 y bitacora para epica E4`) y ejecutar `git push`.
 
 ---
 

diff --git a/docs/documento/capitulos/04-diseno-del-software.md b/docs/documento/capitulos/04-diseno-del-software.md
@@ -153,4 +153,16 @@ Para evitar cruces horarios entre sesiones activas (`RN-05`), cada operación de
 
 Nota: Elaboración propia. Los mensajes con línea discontinua son retornos.
 
-[[pendiente: diagramas de clases de las épicas siguientes (temporizador, metas, calendario, estadísticas y copia de seguridad), con los métodos del ciclo de vida y de los listeners, a medida que se implementen]]
+### Épica Calendario de estudio
+
+La cuarta épica implementada (`add-calendario-estudio`) habilita la pestaña **Calendario** (`DestinoPrincipal.CALENDARIO` → `CalendarioActivity`) con vistas nativas **Día**, **Semana** y **Mes** construidas íntegramente en Views XML y Java sin librerías externas de calendario ni permisos nuevos (HU-16 a HU-21, RN-08, RN-11, RN-13, RNF-06, RNF-19). En el dominio puro, `PeriodoCalendario` resuelve la navegación por día/semana/mes y la conservación de foco al alternar entre vistas, mientras `CalculadorRangoHorario` determina la ventana de desplazamiento inicial (`± 2 h` sobre la rejilla de 24 horas), distribuye columnas paralelas ante coincidencias visuales entre sesiones `REPROGRAMADA` y activas, y calcula el resumen `Plan / Real` del periodo visible. La @figura:clases_calendario presenta sus clases por capa y la @figura:secuencia_consultar_calendario muestra la consulta por rango (`listarPorRango`) sobre Room v3 sin migración de esquema.
+
+![Diagrama de clases de la épica Calendario de estudio](../recursos/diagramas/diagrama_clases_calendario.png){#clases_calendario ancho=16.5}
+
+Nota: Elaboración propia, generada desde el código; `python docs/build/cotejo_clases.py` comprueba la correspondencia exacta con las clases Java.
+
+![Secuencia de consultar el calendario de estudio a través de las tres capas](../recursos/diagramas/secuencia_consultar_calendario.png){#secuencia_consultar_calendario ancho=16.5}
+
+Nota: Elaboración propia. Los mensajes con línea discontinua son retornos.
+
+[[pendiente: diagramas de clases de las épicas siguientes (temporizador, metas, estadísticas y copia de seguridad), con los métodos del ciclo de vida y de los listeners, a medida que se implementen]]
